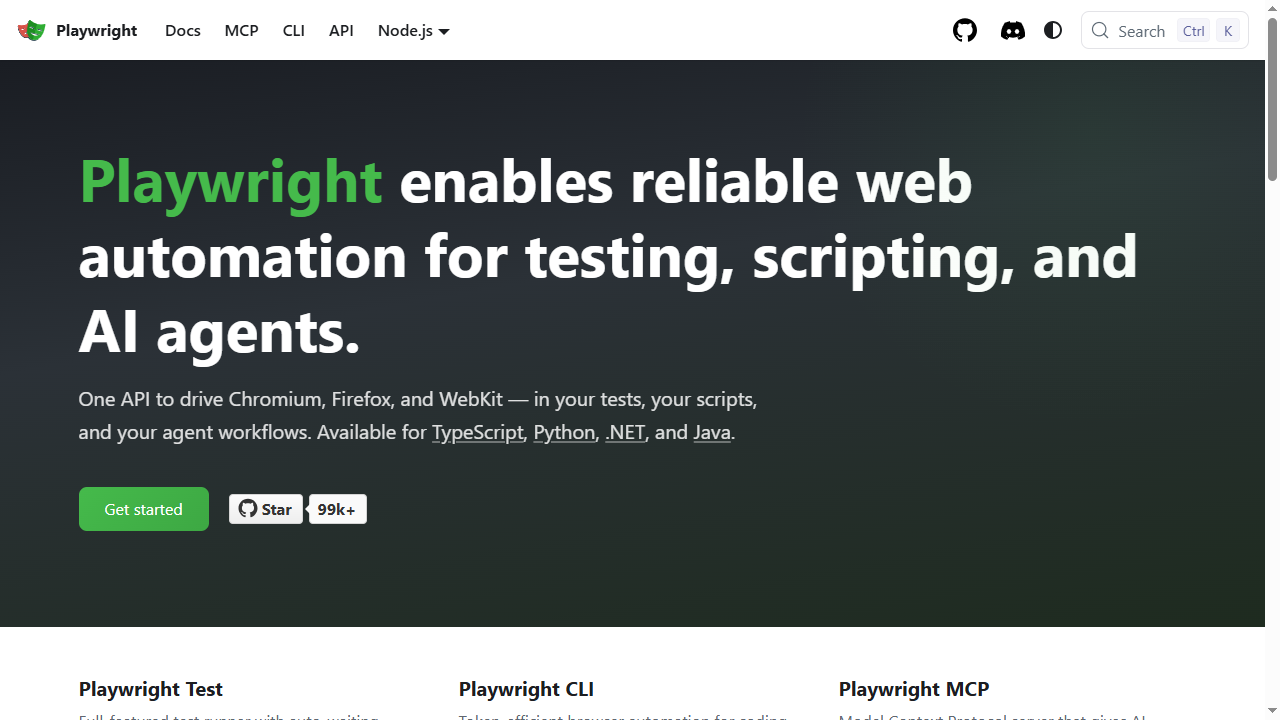
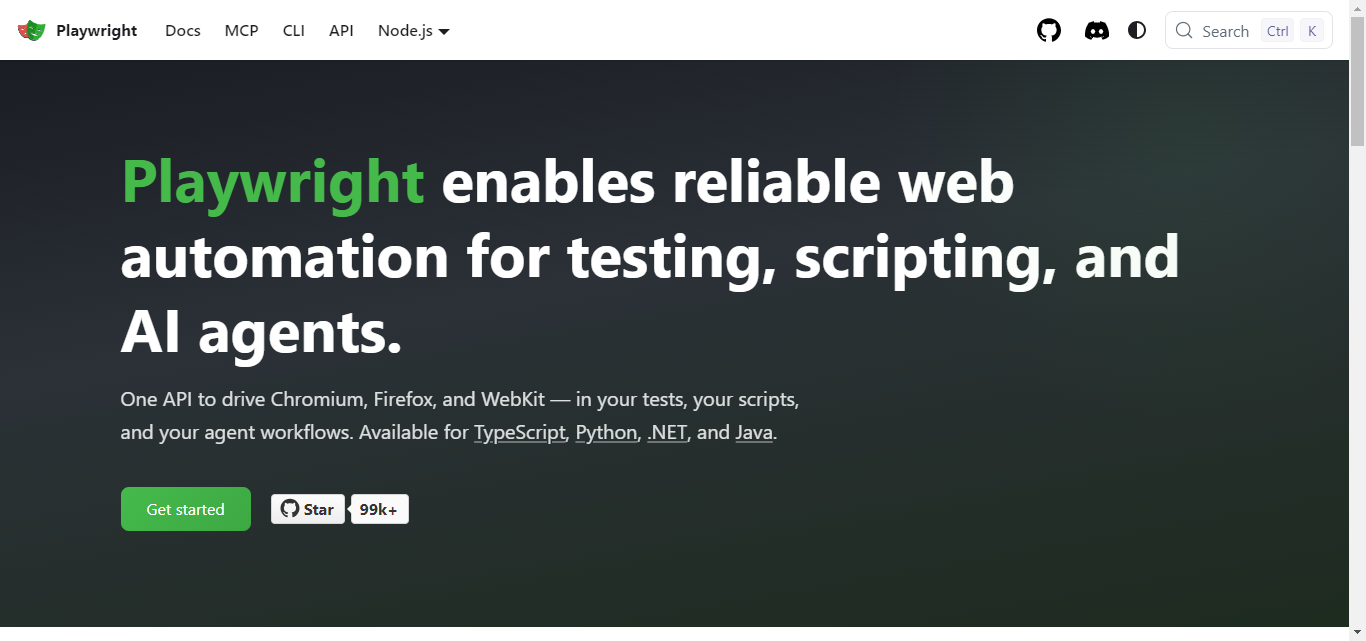
Commit

Changed region(s): [[0.0625, 0.2184, 0.9062, 0.8424], [0.0, 0.8736, 1.0, 1.0], [0.0, 0.0312, 1.0, 0.2496]]

diff --git a/src/test/java/com/pages/PlaywrightManager_5.java b/src/test/java/com/pages/PlaywrightManager_5.java
@@ -1,8 +1,10 @@
 package com.pages;
 
 import java.nio.file.Paths;
+import java.util.Arrays;                        
 import java.util.regex.Pattern;
 import com.microsoft.playwright.Browser;
+import com.microsoft.playwright.BrowserContext; 
 import com.microsoft.playwright.BrowserType;
 import com.microsoft.playwright.Page;
 import com.microsoft.playwright.Playwright;
@@ -14,60 +16,35 @@ public class PlaywrightManager_5
 	{
 		try (Playwright playwright = Playwright.create()) 
 		{
-			Browser browser = playwright.chromium().launch(new BrowserType.LaunchOptions().setHeadless(false));
-			Page page = browser.newPage();
+			// Launch Chromium with the "--start-maximized" argument
+			Browser browser = playwright.chromium().launch(
+				new BrowserType.LaunchOptions()
+					.setHeadless(false)
+					.setArgs(Arrays.asList("--start-maximized"))
+			);
+			
+			// Create a BrowserContext with viewport set to 'null' 
+			// This prevents Playwright from forcing a default viewport size (e.g., 1280x720)
+			BrowserContext context = browser.newContext(new Browser.NewContextOptions().setViewportSize(null));
+			
+			// Create a new page from the context and not directly from the browser
+			Page page = context.newPage();
+			
 			page.navigate("https://playwright.dev/");
 			page.waitForTimeout(3000);
 			System.out.println("Title: " + page.title());
+			
 			PlaywrightAssertions.assertThat(page).hasTitle(Pattern.compile("Fast and reliable end-to-end testing for modern web apps | Playwright"));
 			
-			page.screenshot(  new Page.ScreenshotOptions().setPath(Paths.get("PagePrint.png"))  );                 // Relative path for the file 'PagePrint.png'
-
-			page.screenshot(  new Page.ScreenshotOptions().setPath(Paths.get("D:/screenshots/PagePrint.png"))  );  // Absolute path for the file 'PagePrint.png'
+			// Relative path for the file 'PagePrint.png'
+			page.screenshot(new Page.ScreenshotOptions().setPath(Paths.get("PagePrint.png")));
+			
+			// Absolute path for the file 'PagePrint.png'
+			page.screenshot(new Page.ScreenshotOptions().setPath(Paths.get("D:/screenshots/PagePrint.png")));
 		}
 		catch (Exception e) 
-        {
-            e.printStackTrace();
-        }
+		{
+			e.printStackTrace();
+		}
 	}
 }
-
-/*
-Taking Screenshot of the page:
-------------------------------
-
-page.screenshot(  new Page.ScreenshotOptions().setPath(Paths.get("PagePrint.png"))  );
-
-page.screenshot(new Page.ScreenshotOptions().setPath(Paths.get("PagePrint.png")));
-1. `page.screenshot(...)` captures a screenshot of the current page.
-2. `new Page.ScreenshotOptions()` creates an options object where you configure how the screenshot is taken (path, full page, clip region, quality, etc.).
-3. `.setPath(...)` tells Playwright where to save the file — and it also makes Playwright automatically write the image to disk for you.
-
-Why `Paths.get("PagePrint.png")`?
-`setPath()` doesn't accept a plain `String`. Its signature is:
-ScreenshotOptions setPath(Path path)
-
-So you must pass a `java.nio.file.Path` object. 
-`Paths.get("PagePrint.png")` is the standard Java NIO way of creating one — it's a factory method that converts a path string into a `Path` instance.
-You're right that we didn't give a directory — and that's fine:
-
-- "PagePrint.png" is a relative path. 
-  Java resolves it against the working directory of the process (wherever you launched the test from, e.g. the project root in Maven/Gradle runs).
-- If you wanted a specific location, you'd write it as a path string:
-
-Paths.get("screenshots/PagePrint.png")                  // relative, subfolder
-Paths.get("/home/user/output/PagePrint.png")            // absolute (Linux/Mac)
-Paths.get("C:\\screenshots\\PagePrint.png")             // absolute (Windows)
-
-Equivalent long form:
-Page.ScreenshotOptions options = new Page.ScreenshotOptions();
-options.setPath(Paths.get("PagePrint.png"));
-page.screenshot(options);
-
-The single-line version is just method chaining. 
-Bonus: `setPath()` also returns the options object, which is why chaining works.
-
-Alternative — if you'd rather handle the bytes yourself (e.g. attach to a report), skip the path and use the return value:
-byte[] image = page.screenshot();
-Files.write(Paths.get("PagePrint.png"), image);
-*/
